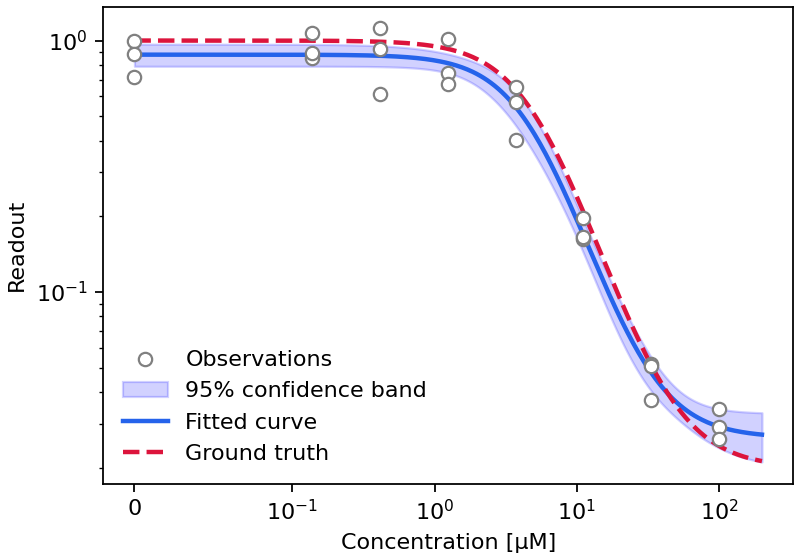
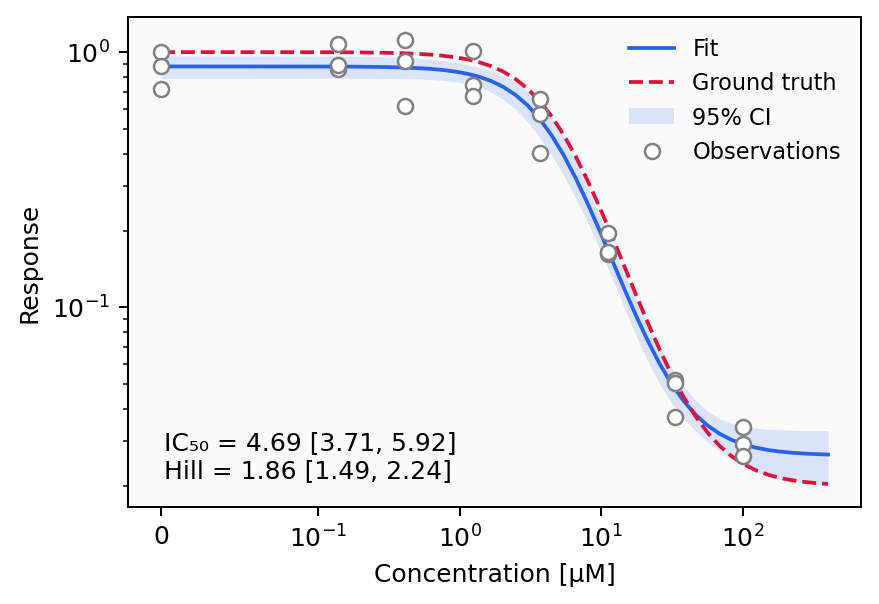
feat(plot): add reference curves to dose-response plots

Changed region(s): [[0.0, 0.0, 1.0, 1.0], [0.7188, 0.0607, 0.8125, 0.0911]]

diff --git a/src/synfit/plotting.py b/src/synfit/plotting.py
@@ -1,5 +1,6 @@
 """Static matplotlib figures for synfit results."""
 import io
+from collections.abc import Mapping
 
 # Force the non-interactive Agg backend before any pyplot import. Django's
 # threaded runserver crashes the default TkAgg backend with "main thread is
@@ -40,12 +41,6 @@ _EXCLUDED = "#ef4444"
 
 def _style_axes(ax: plt.Axes) -> None:
     ax.set_facecolor("#fafafa")
-    ax.spines["top"].set_visible(False)
-    ax.spines["right"].set_visible(False)
-    for side in ("bottom", "left"):
-        sp = ax.spines[side]
-        sp.set_linewidth(0.8)
-        sp.set_color("#94a3b8")
 
 
 def _fmt_conc(c: float) -> str:
@@ -57,6 +52,13 @@ def _fmt_conc(c: float) -> str:
         s = np.format_float_scientific(c, precision=0, exp_digits=1)
         return s.replace("e+0", "e").replace("e-0", "e-").replace("E", "e")
     return f"{c:g}"
+
+
+def _symlog_linthresh(min_positive_concentration: float) -> float:
+    """Start the linear region at the lower decade of the smallest dose."""
+    if not np.isfinite(min_positive_concentration) or min_positive_concentration <= 0:
+        raise ValueError("min_positive_concentration must be finite and positive")
+    return float(10.0 ** np.floor(np.log10(min_positive_concentration)))
 
 
 def _save_fig_png(fig: plt.Figure) -> bytes:
@@ -82,7 +84,7 @@ def raw_scatter_plot(data: pd.DataFrame) -> bytes:
     has_zero = (data["concentration"] == 0).any()
 
     if has_zero:
-        linthresh = float(conc_nonzero.min()) / 10.0
+        linthresh = _symlog_linthresh(float(conc_nonzero.min()))
         ax.set_xscale("symlog", linthresh=linthresh)
     else:
         ax.set_xscale("log")
@@ -158,20 +160,63 @@ def dose_response_plot(
     data: pd.DataFrame,
     result: FitResult,
     valids: np.ndarray | None = None,
+    *,
+    reference: Mapping[str, float] | None = None,
+    reference_label: str = "Ground truth",
+    x_label: str | None = None,
+    title: str | None = None,
 ) -> bytes:
     """
-    Dose-response scatter + fitted curve.
+    Dose-response scatter, fitted curve, and optional reference curve.
 
     Returns PNG bytes.
     Expected columns: concentration, y, replicate.
+
+    ``reference`` may contain ``c50``, ``hill``, ``effect_0``, ``effect_inf``
+    and optionally ``asymmetry`` — for example, parameters used to generate a
+    synthetic dataset. It is plotted as a dashed curve. ``x_label``
+    and ``title`` label the finished plot. The x-axis is symmetric-log when
+    data contains zero concentration and log otherwise. A lognormal fit uses a
+    log y-axis only when every plotted response and confidence limit is positive.
     """
+    required_columns = {"concentration", "y", "replicate"}
+    if not required_columns.issubset(data.columns):
+        raise ValueError("data must have columns: concentration, y, replicate")
+
+    concentration = np.asarray(data["concentration"], dtype=float)
+    positive = concentration[np.isfinite(concentration) & (concentration > 0)]
+    if positive.size == 0:
+        raise ValueError("dose_response_plot requires at least one positive concentration")
+
+    if valids is None:
+        valids = np.ones(len(data), dtype=bool)
+    else:
+        valids = np.asarray(valids, dtype=bool)
+        if valids.shape != (len(data),):
+            raise ValueError("valids must be a one-dimensional mask aligned with data")
+
+    reference_kwargs: dict[str, float] | None = None
+    if reference is not None:
+        required_reference = {"c50", "hill", "effect_0", "effect_inf"}
+        missing = required_reference.difference(reference)
+        if missing:
+            raise ValueError(
+                "reference must contain c50, hill, effect_0 and effect_inf; "
+                f"missing {', '.join(sorted(missing))}"
+            )
+        reference_kwargs = {name: float(reference[name]) for name in required_reference}
+        if "asymmetry" in reference:
+            reference_kwargs["asymmetry"] = float(reference["asymmetry"])
+
     fig, ax = plt.subplots(figsize=(5, 3.5))
     _style_axes(ax)
 
-    conc_nonzero = data.query("concentration > 0")["concentration"]
-    has_zero = (data["concentration"] == 0).any()
+    conc_nonzero = positive
+    has_zero = np.any(concentration == 0)
 
     xr = np.geomspace(conc_nonzero.min() * 0.2, conc_nonzero.max() * 4)
+    if has_zero:
+        xr = np.r_[0.0, xr]
     yr = hill_curve(
         xr,
         c50=result.c50,
@@ -182,11 +227,23 @@ def dose_response_plot(
     )
 
     if has_zero:
-        linthresh = float(conc_nonzero.min()) / 10.0
+        linthresh = _symlog_linthresh(float(conc_nonzero.min()))
         ax.set_xscale("symlog", linthresh=linthresh)
-        ax.plot(xr, yr, color=_FIT_BLUE, lw=1.5, label="fit")
+        ax.plot(xr, yr, color=_FIT_BLUE, lw=1.5, label="Fit")
     else:
-        ax.semilogx(xr, yr, color=_FIT_BLUE, lw=1.5, label="fit")
+        ax.semilogx(xr, yr, color=_FIT_BLUE, lw=1.5, label="Fit")
+
+    reference_y: np.ndarray | None = None
+    if reference_kwargs is not None:
+        reference_y = hill_curve(xr, **reference_kwargs)
+        ax.plot(
+            xr,
+            reference_y,
+            color="crimson",
+            lw=1.5,
+            linestyle="--",
+            label=reference_label,
+        )
 
     # Confidence band (delta method)
     ci_band = result.predict_ci(xr)
@@ -194,19 +251,26 @@ def dose_response_plot(
         lo, hi = ci_band
         ax.fill_between(xr, lo, hi, color=_FIT_BLUE, alpha=0.15, linewidth=0, label="95% CI")
 
-    if valids is None:
-        valids = np.ones(len(data), dtype=bool)
+    # Lognormal fits use a multiplicative response model. Show that geometry on
+    # a logarithmic y-axis only when every rendered curve/data value is valid
+    # there; otherwise retain a readable linear scale.
+    y_for_scale = [np.asarray(data["y"], dtype=float), yr]
+    if ci_band is not None:
+        y_for_scale.extend(ci_band)
+    if reference_y is not None:
+        y_for_scale.append(reference_y)
+    finite_y = np.concatenate([values[np.isfinite(values)] for values in y_for_scale])
+    if result.error_model == "lognormal" and finite_y.size and np.all(finite_y > 0):
+        ax.set_yscale("log")
 
-    for rep, grp in data.groupby("replicate"):
-        mask = valids[grp.index.values]
-        ax.scatter(
+    plot_data = data.copy()
+    plot_data["_valid"] = valids
+    for i, (_, grp) in enumerate(plot_data.groupby("replicate")):
+        mask = grp["_valid"].to_numpy()
+        ax.plot(
             grp["concentration"].values[mask],
-            grp["y"].values[mask],
-            s=36,
-            color=_FIT_BLUE,
-            alpha=0.85,
-            edgecolors="white",
-            linewidths=0.6,
+            grp["y"].values[mask], "o", mfc='w', mec='gray',
+            label="Observations" if i == 0 else None,
         )
         if (~mask).any():
             ax.scatter(
@@ -219,8 +283,10 @@ def dose_response_plot(
                 label="excluded",
             )
 
-    ax.set_xlabel("Concentration")
+    ax.set_xlabel("Concentration" if x_label is None else x_label)
     ax.set_ylabel("Response")
+    if title is not None:
+        ax.set_title(title)
 
     cis = result.param_ci()
     if result.direction == "activation":
@@ -245,13 +311,9 @@ def dose_response_plot(
         annotation,
         transform=ax.transAxes,
         va="bottom",
-        fontsize=9,
-        bbox={
-            "facecolor": "#f1f5f9",
-            "edgecolor": "#cbd5e1",
-            "boxstyle": "round,pad=0.35",
-        },
+        fontsize=10,
     )
+    ax.legend(frameon=False, fontsize=9, loc="best")
 
     fig.tight_layout()
     return _save_fig_png(fig)

diff --git a/scripts/generate_doc_figures.py b/scripts/generate_doc_figures.py
@@ -27,10 +27,28 @@ def main() -> None:
         if len(matches) != 1:
             raise ValueError(f"Expected one '# Generates {filename}' block in {markdown}")
         with tempfile.TemporaryDirectory(prefix="synfit-figure-") as workdir:
-            code = matches[0] + (
-                "\nfrom matplotlib import pyplot as _doc_pyplot\n"
-                f"_doc_pyplot.gcf().savefig({filename!r}, dpi={dpi})\n"
-                "_doc_pyplot.close('all')\n"
+            # Rewrite the final expression so a PNG-returning helper can be
+            # captured without adding generator plumbing to the documentation.
+            code = (
+                "import ast\n"
+                f"_doc_source = {matches[0]!r}\n"
+                "_doc_tree = ast.parse(_doc_source)\n"
+                "_doc_last = _doc_tree.body[-1]\n"
+                "if not isinstance(_doc_last, ast.Expr):\n"
+                "    raise TypeError('The figure example must end with a plotting expression')\n"
+                "_doc_tree.body[-1] = ast.Assign(\n"
+                "    targets=[ast.Name(id='_doc_output', ctx=ast.Store())], value=_doc_last.value\n"
+                ")\n"
+                "ast.fix_missing_locations(_doc_tree)\n"
+                f"exec(compile(_doc_tree, {markdown!r}, 'exec'))\n"
+                "from matplotlib import pyplot as _doc_pyplot\n"
+                "if _doc_pyplot.get_fignums():\n"
+                f"    _doc_pyplot.gcf().savefig({filename!r}, dpi={dpi})\n"
+                "    _doc_pyplot.close('all')\n"
+                "elif isinstance(_doc_output, bytes):\n"
+                f"    open({filename!r}, 'wb').write(_doc_output)\n"
+                "else:\n"
+                "    raise TypeError('The plotting expression must return PNG bytes or leave a figure open')\n"
             )
             subprocess.run([sys.executable, "-c", code], cwd=workdir, check=True)
             image = (Path(workdir) / filename).read_bytes()

diff --git a/tests/test_plotting.py b/tests/test_plotting.py
@@ -55,6 +55,30 @@ class TestDoseResponsePlot:
         result = dose_response_plot(single_drug_data, fit_result, valids=valids)
         assert result[:4] == PNG_MAGIC
 
+    def test_with_reference_curve_and_labels(self, single_drug_data, fit_result):
+        result = dose_response_plot(
+            single_drug_data,
+            fit_result,
+            reference={"c50": 5, "hill": 1.5, "effect_0": 1, "effect_inf": 0.02},
+            reference_label="Ground truth",
+            x_label="Test compound concentration [µM]",
+            title="Synthetic fit",
+        )
+        assert result[:4] == PNG_MAGIC
+
+    def test_rejects_incomplete_reference(self, single_drug_data, fit_result):
+        with pytest.raises(ValueError, match="missing effect_inf"):
+            dose_response_plot(single_drug_data, fit_result, reference={"c50": 5, "hill": 1.5, "effect_0": 1})
+
+    def test_lognormal_fit_with_zero_control_produces_png(self, single_drug_data, fit_result):
+        data = pd.concat([
+            single_drug_data,
+            pd.DataFrame({"concentration": [0.0], "y": [1.0], "replicate": ["A"]}),
+        ], ignore_index=True)
+        fit_result.error_model = "lognormal"
+        result = dose_response_plot(data, fit_result)
+        assert result[:4] == PNG_MAGIC
+
 
 class TestMatrixHeatmap:
     def test_produces_png(self, matrix_data):

diff --git a/docs/api.md b/docs/api.md
@@ -404,17 +404,23 @@ noninteractive Agg backend and sets plotting defaults. [Source](../src/synfit/pl
 ```text
 raw_scatter_plot(data)
 raw_replicate_heatmap(data)
-dose_response_plot(data, result, valids=None)
+dose_response_plot(data, result, valids=None, *, reference=None,
+                   reference_label="Ground truth", x_label=None, title=None)
 matrix_heatmap(matrix, conc_horizontal, conc_vertical, *, vmin=None, vmax=None,
                cmap="viridis", norm=None, cbar_label=None, title=None)
 raw_matrix_heatmap(matrix, conc_horizontal, conc_vertical, label="")
 ```
 
-Single-drug plots use `concentration`, `y`, `replicate` and need positive doses
-for the logarithmic axis. The dose-response plot includes a pointwise 95% curve
-band when covariance is available. Matrix inputs follow the same row/column
-orientation as synergy functions. `matrix_heatmap` accepts a custom Matplotlib
-normalization; use it to plot an already computed score array.
+Single-drug plots use `concentration`, `y`, `replicate` and need at least one
+positive dose. The dose-response plot includes a pointwise 95% curve band when
+covariance is available. It infers a symmetric-log x-axis when zero-dose data
+is present and a log axis otherwise. A lognormal fit uses a log y-axis only if
+every drawn response and confidence limit is strictly positive. Its optional
+`reference` mapping takes `c50`, `hill`, `effect_0`, `effect_inf`, and optionally
+`asymmetry`; it draws a dashed curve, which is useful for known synthetic truth
+or a specified benchmark. Matrix inputs follow the same row/column orientation
+as synergy functions. `matrix_heatmap` accepts a custom Matplotlib normalization;
+use it to plot an already computed score array.
 
 `deviation_heatmap`, `hsa_heatmap`, `zip_heatmap` and `loewe_heatmap` are
 convenience wrappers computing their respective scores before plotting.

diff --git a/CHANGELOG.md b/CHANGELOG.md
@@ -15,6 +15,10 @@ heading.
 
 ## [Unreleased]
 
+### Added
+- `dose_response_plot` can draw an optional reference curve, infer appropriate
+  logarithmic axes, and label a drug-specific concentration axis.
+
 ### Documentation
 - Added a linked API reference covering fit configuration, results, noise,
   synergy helpers, bundled scenarios and plotting.
